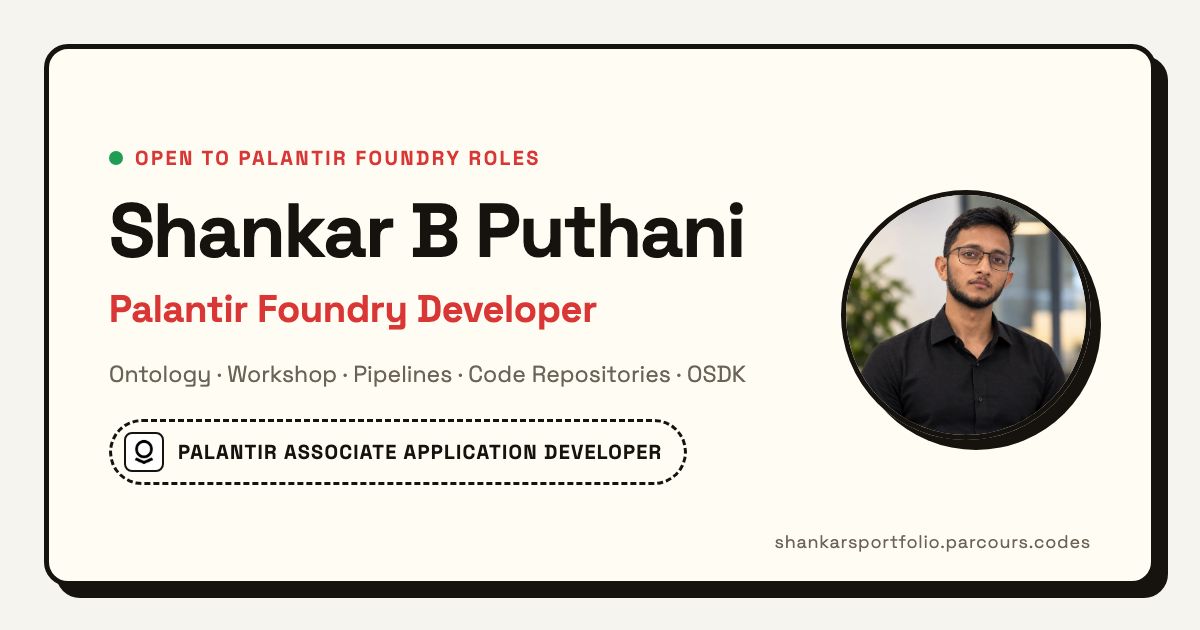
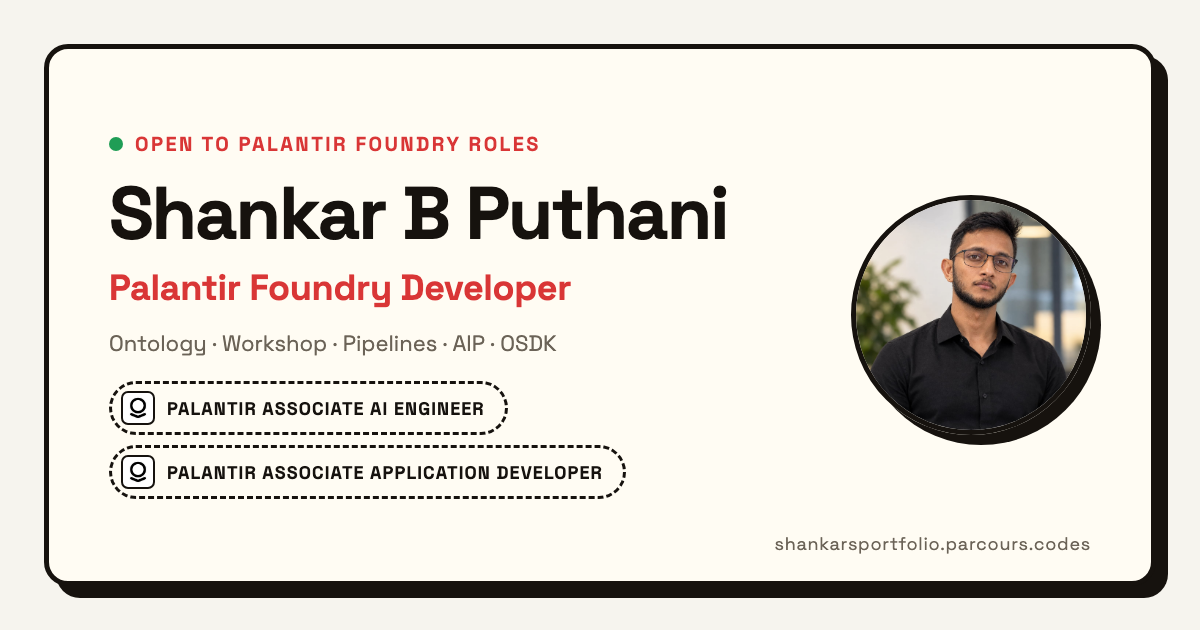
Add Palantir Associate AI Engineer certification
- New certification card with Skilljar credential link (newest first)
- Hero shows a badge for every certification, not just the first
- About text, meta descriptions and JSON-LD list both credentials
- Regenerate og-image.png with both certification badges

Changed region(s): [[0.0925, 0.2111, 0.6167, 0.8143], [0.6783, 0.3016, 0.8942, 0.7238], [0.6475, 0.8444, 0.925, 0.8746]]

diff --git a/index.html b/index.html
@@ -20,7 +20,7 @@
     <title>Shankar B Puthani · Palantir Foundry Developer</title>
     <meta
       name="description"
-      content="Shankar B Puthani, Palantir Foundry Developer and certified Palantir Associate Application Developer. Building Ontology models, pipelines, and Workshop applications at Accenture."
+      content="Shankar B Puthani, Palantir Foundry Developer certified as a Palantir Associate Application Developer and Associate AI Engineer. Building Ontology models, pipelines, and Workshop applications at Accenture."
     />
     <link rel="canonical" href="https://shankarsportfolio.parcours.codes/" />
 
@@ -31,20 +31,20 @@
     <meta property="og:title" content="Shankar B Puthani · Palantir Foundry Developer" />
     <meta
       property="og:description"
-      content="Certified Palantir Associate Application Developer building Ontology models, pipelines, and Workshop applications. Open to Palantir Foundry roles."
+      content="Palantir-certified Application Developer and AI Engineer building Ontology models, pipelines, and Workshop applications. Open to Palantir Foundry roles."
     />
     <meta property="og:image" content="https://shankarsportfolio.parcours.codes/og-image.png" />
     <meta property="og:image:width" content="1200" />
     <meta property="og:image:height" content="630" />
     <meta
       property="og:image:alt"
-      content="Shankar B Puthani, Palantir Foundry Developer, Palantir Associate Application Developer"
+      content="Shankar B Puthani, Palantir Foundry Developer, Palantir Associate Application Developer and Associate AI Engineer"
     />
     <meta name="twitter:card" content="summary_large_image" />
     <meta name="twitter:title" content="Shankar B Puthani · Palantir Foundry Developer" />
     <meta
       name="twitter:description"
-      content="Certified Palantir Associate Application Developer building Ontology models, pipelines, and Workshop applications."
+      content="Palantir-certified Application Developer and AI Engineer building Ontology models, pipelines, and Workshop applications."
     />
     <meta name="twitter:image" content="https://shankarsportfolio.parcours.codes/og-image.png" />
 
@@ -66,17 +66,27 @@
           "Foundry Code Repositories",
           "Data Pipelines",
           "Palantir Slate",
+          "Palantir AIP",
           "Python",
           "TypeScript",
           "React"
         ],
-        "hasCredential": {
-          "@type": "EducationalOccupationalCredential",
-          "name": "Palantir Associate Application Developer",
-          "credentialCategory": "certification",
-          "recognizedBy": { "@type": "Organization", "name": "Palantir Technologies" },
-          "url": "https://verify.skilljar.com/c/cy4vd8286ngq"
-        },
+        "hasCredential": [
+          {
+            "@type": "EducationalOccupationalCredential",
+            "name": "Palantir Associate AI Engineer",
+            "credentialCategory": "certification",
+            "recognizedBy": { "@type": "Organization", "name": "Palantir Technologies" },
+            "url": "https://verify.skilljar.com/c/2rk5pwnnhg88"
+          },
+          {
+            "@type": "EducationalOccupationalCredential",
+            "name": "Palantir Associate Application Developer",
+            "credentialCategory": "certification",
+            "recognizedBy": { "@type": "Organization", "name": "Palantir Technologies" },
+            "url": "https://verify.skilljar.com/c/cy4vd8286ngq"
+          }
+        ],
         "sameAs": [
           "https://www.linkedin.com/in/shankar-puthani",
           "https://github.com/Shankar-94"

diff --git a/src/components/Hero.tsx b/src/components/Hero.tsx
@@ -47,16 +47,12 @@ export const Hero = () => {
           </a>
         </div>
         <div className="hero__meta">
-          {CERTIFICATIONS[0] && (
-            <a href="#certifications" className="hero__tag hero__tag--brand">
-              {CERTIFICATIONS[0].logo ? (
-                <BrandMark src={CERTIFICATIONS[0].logo} size="sm" />
-              ) : (
-                '✓ '
-              )}
-              {CERTIFICATIONS[0].title}
+          {CERTIFICATIONS.map((cert) => (
+            <a key={cert.title} href="#certifications" className="hero__tag hero__tag--brand">
+              {cert.logo ? <BrandMark src={cert.logo} size="sm" /> : '✓ '}
+              {cert.title}
             </a>
-          )}
+          ))}
           <div className="hero__tag">Engineering Services Analyst · Accenture</div>
         </div>
       </div>

diff --git a/src/data/index.ts b/src/data/index.ts
@@ -80,9 +80,16 @@ export const HERO_STACK_ITEMS = [
  * Certifications — to add a new one:
  *   1. Put the file in public/certificates/ (PDF, PNG or JPG).
  *   2. Add an entry below. `file` and `image` paths start with /certificates/.
- * The first entry is also shown as a badge in the hero section.
+ * Every entry is also shown as a badge in the hero section. Newest first.
  */
 export const CERTIFICATIONS: Certification[] = [
+  {
+    title: 'Palantir Associate AI Engineer',
+    issuer: 'Palantir Technologies',
+    logo: PALANTIR_LOGO,
+    verifyUrl: 'https://verify.skilljar.com/c/2rk5pwnnhg88',
+    skills: ['AIP', 'LLMs in Foundry', 'Ontology', 'AI Engineering'],
+  },
   {
     title: 'Palantir Associate Application Developer',
     issuer: 'Palantir Technologies',

diff --git a/src/components/About.tsx b/src/components/About.tsx
@@ -23,7 +23,8 @@ export const About = () => {
           </p>
           <p>
             I am Shankar B Puthani, an Engineering Services Analyst at Accenture, Bengaluru,
-            and a certified Palantir Associate Application Developer. Since joining in January
+            certified as both a Palantir Associate Application Developer and a Palantir
+            Associate AI Engineer. Since joining in January
             2024, I have delivered data and application solutions across the aviation domain,
             and Palantir Foundry is where I am focusing my career.
           </p>
